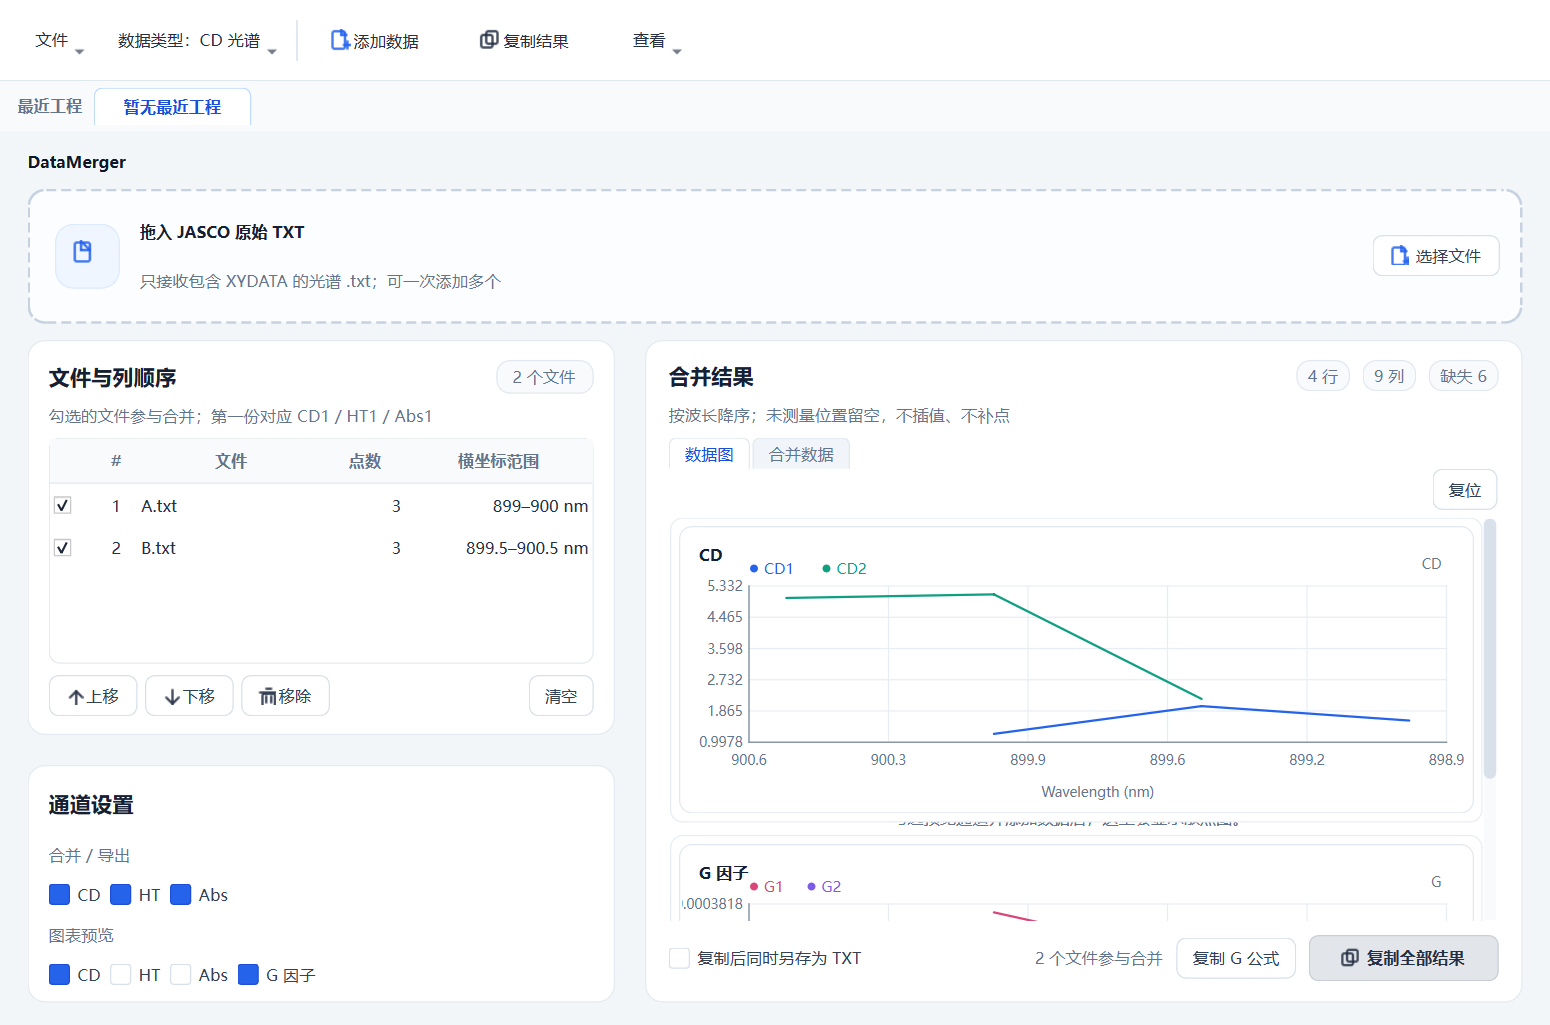
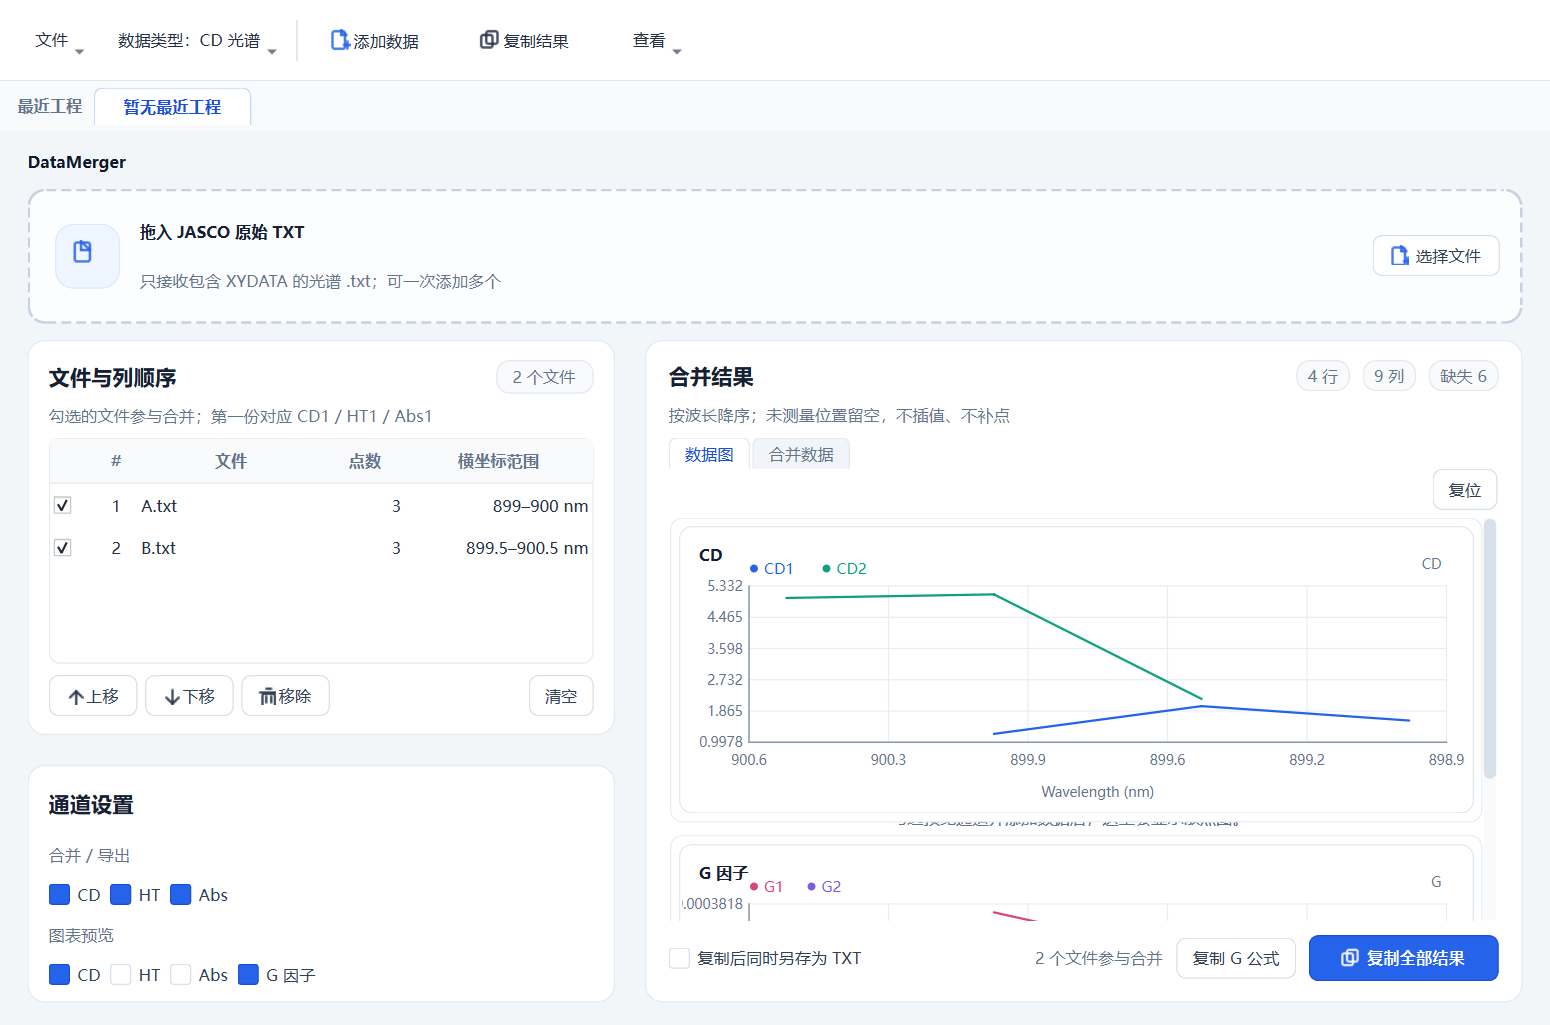
Restore blue primary action in light theme

Changed region(s): [[0.8361, 0.9054, 0.991, 0.9678]]

diff --git a/ui_main.py b/ui_main.py
@@ -762,7 +762,7 @@ class MainWindow(QMainWindow):
         self.drop_zone.refresh_theme()
         self.add_files_action.setIcon(_icon("add", accent_color))
         self.copy_action.setIcon(_icon("copy", icon_color))
-        primary_icon = "#f0f0f0" if active_mode() == "dark" else "#253044"
+        primary_icon = "#f0f0f0" if active_mode() == "dark" else "#ffffff"
         self.copy_button.setIcon(_icon("copy", primary_icon, 17))
         self.up_button.setIcon(_icon("up", icon_color, 15))
         self.down_button.setIcon(_icon("down", icon_color, 15))
@@ -1689,14 +1689,14 @@ QPushButton#outlineButton:hover, QPushButton#smallButton:hover {
     border-color: #b8c5d5;
 }
 QPushButton#primaryButton {
-    background: #e2e5e9;
-    color: #253044;
-    border: 1px solid #c9ced6;
+    background: #2563eb;
+    color: white;
+    border: 1px solid #1d4ed8;
     padding: 9px 15px;
     font-weight: 600;
 }
 QPushButton#primaryButton:hover {
-    background: #d5d9df;
+    background: #1d4ed8;
 }
 QPushButton:disabled {
     color: #94a3b8;

diff --git a/tests/test_ui_smoke.py b/tests/test_ui_smoke.py
@@ -318,6 +318,7 @@ class UiSmokeTests(unittest.TestCase):
         dialog.close()
 
     def test_theme_and_font_settings_apply_and_persist(self) -> None:
+        self.assertIn("background: #2563eb;", APP_STYLE)
         self.window._set_theme("dark")
         self.assertEqual(self.app.property("dataMergerTheme"), "dark")
         self.assertEqual(load_user_config(self.window.config_path).theme_mode, "dark")
